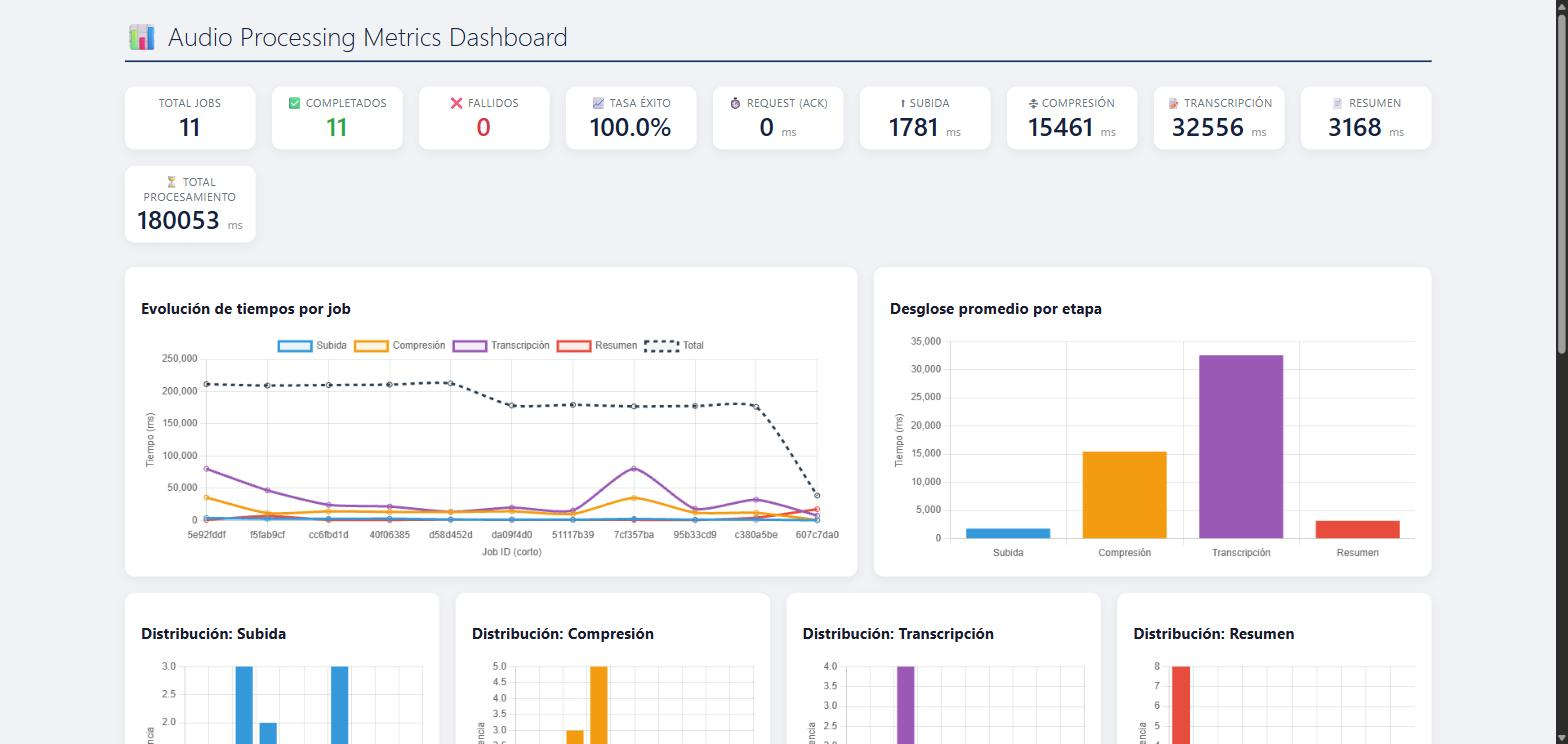
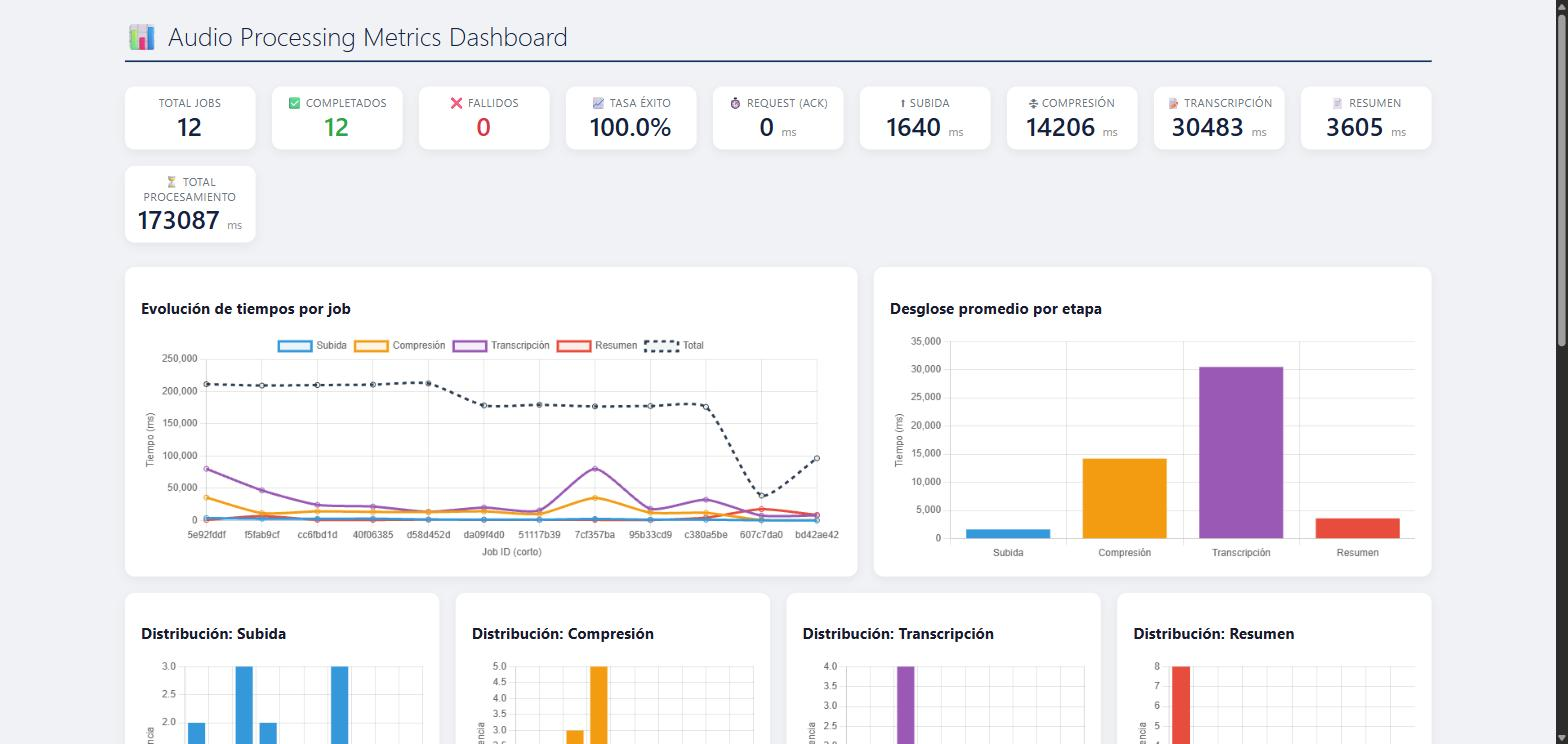
Build images from this repo's own source and fix what breaks when you do
Previous screenshots were taken against the pre-built registry images,
which turned out to be ahead of (and inconsistent with) the frontend
source tracked in this repo. Building AudioUploader and frontend from
their own Dockerfiles instead surfaced two real bugs that had to be
fixed to get a working stack:

- frontend/nginx.conf proxied /api/ to a host "api:8080" that doesn't
  exist in docker-compose.yml (the backend service is "app" on 5247),
  so nginx refused to start.
- The frontend's HTTP client assumed unwrapped API responses, but the
  backend always wraps them as { statusCode, response, error }.
  Without unwrapping, the file list crashed with a blank page.

Also adds infrastructure/docker-compose.local.yml, an explicit
(non-auto-loaded) overlay to run the stack against locally built
images instead of the registry ones, and replaces the README
screenshots with ones taken against these freshly built images.

diff --git a/frontend/src/components/AudioList/AudioList.tsx b/frontend/src/components/AudioList/AudioList.tsx
@@ -73,16 +73,16 @@ export const AudioList: React.FC = () => {
           <TableBody>
             {audioFiles.map((file) => (
               <TableRow key={file.id}>
-                <TableCell>{file.originalFileName}</TableCell>
+                <TableCell>{file.fileName}</TableCell>
                 <TableCell>
                   {file.fileSize ? (file.fileSize / 1024).toFixed(1) + ' KB' : '-'}
                 </TableCell>
                 <TableCell>{file.format?.toUpperCase() || '-'}</TableCell>
                 <TableCell>
-                  {file.jobStatus && (
+                  {file.jobStatusDisplay && (
                     <Chip
-                      label={file.jobStatus}
-                      color={file.jobStatus === 'Completed' ? 'success' : 'warning'}
+                      label={file.jobStatusDisplay}
+                      color={file.jobStatusDisplay === 'Completed' ? 'success' : 'warning'}
                       size="small"
                     />
                   )}

diff --git a/frontend/src/api/client.ts b/frontend/src/api/client.ts
@@ -8,3 +8,14 @@ export const apiClient = axios.create({
     'Content-Type': 'application/json',
   },
 });
+
+// El backend envuelve toda respuesta exitosa en { statusCode, response, error }.
+// Desenvolvemos acá una sola vez para que el resto del código pueda tratar
+// response.data como el payload real, en vez de repetir response.data.response
+// en cada llamada.
+apiClient.interceptors.response.use((response) => {
+  if (response.data && typeof response.data === 'object' && 'response' in response.data) {
+    response.data = response.data.response;
+  }
+  return response;
+});

diff --git a/frontend/src/types/index.ts b/frontend/src/types/index.ts
@@ -1,13 +1,13 @@
 export interface AudioFile {
   id: number;
-  originalFileName: string;
+  fileName: string;
   bucketPath: string;
   fileSize?: number;
   durationSeconds?: number;
   format?: string;
   fileType: string;
   createdAt: string;
-  jobStatus?: string;
+  jobStatusDisplay?: string;
   jobId?: string;
 }
 

diff --git a/README.md b/README.md
@@ -25,16 +25,29 @@ Audio subido  →  Compresión + Filtrado (FFmpeg)  →  Transcripción (Whisper
 
 ## Capturas
 
-Stack completo corriendo con `docker compose up` (backend, frontend, PostgreSQL, MinIO, RabbitMQ y Ollama con GPU), probado subiendo un audio real de punta a punta.
+Imágenes construidas **desde cero a partir del código fuente de este monorepo** (`docker build` sobre `AudioUploader/Dockerfile` y `frontend/Dockerfile`, sin usar las imágenes publicadas en el registry) y corridas con `docker compose` (backend, frontend, PostgreSQL, MinIO, RabbitMQ y Ollama con GPU). Probado subiendo un audio real de punta a punta.
 
 | | |
 |---|---|
-| **Subida de audios** — historial de jobs y drag & drop | **Procesamiento en vivo** — estado `Transcribing` notificado por WebSocket mientras corre el pipeline |
-| ![Pantalla de subida de audios](docs/screenshots/01-upload.jpg) | ![Job procesándose en tiempo real](docs/screenshots/02-live-processing.jpg) |
-| **Job completado** — transcripción y resumen generados por IA | **Dashboard de métricas** — tiempos por etapa del pipeline |
-| ![Detalle de un job completado con transcripción y resumen](docs/screenshots/03-job-completed.jpg) | ![Dashboard de métricas de procesamiento](docs/screenshots/04-metrics-dashboard.jpg) |
+| **Subir Audios** — formulario de subida con drag & drop | **Archivos de Audio** — listado con estado de cada job |
+| ![Pantalla de subida de audios](docs/screenshots/01-upload.jpg) | ![Listado de archivos de audio con su estado](docs/screenshots/02-audio-list.jpg) |
+| **Detalle de un Job** — estado y timestamps | **Dashboard de métricas** — tiempos por etapa del pipeline |
+| ![Detalle de estado de un job](docs/screenshots/03-job-status.jpg) | ![Dashboard de métricas de procesamiento](docs/screenshots/04-metrics-dashboard.jpg) |
 
-> Nota: estas capturas corresponden a la imagen de `frontend` publicada como `:latest` en el registry, que en este momento tiene funcionalidad (rutas `/audio/{id}`, validación en Web Worker, búsqueda avanzada, badge "En vivo" por WebSocket) más avanzada que el código fuente de `frontend/` incluido en este monorepo. Antes de tocar el frontend conviene sincronizar el código fuente con lo que realmente está desplegado.
+Construir y correr con las imágenes locales en vez de las del registry:
+
+```bash
+docker build -t sonata-audiouploader:local -f AudioUploader/Dockerfile AudioUploader
+docker build -t sonata-frontend:local -f frontend/Dockerfile frontend
+cd infrastructure
+docker compose -f docker-compose.yml -f docker-compose.local.yml up -d
+```
+
+> **Nota sobre el estado del frontend:** al construir `frontend/` desde su código fuente (en vez de usar la imagen `:latest` del registry, que resultó estar más adelantada) aparecieron dos problemas reales que corregimos en este mismo commit para poder levantar el stack:
+> 1. `nginx.conf` proxyaba `/api/` a un host `api:8080` que no existe en `docker-compose.yml` (el servicio se llama `app` y escucha en `5247`) — el contenedor de nginx no arrancaba.
+> 2. El cliente HTTP del frontend esperaba las respuestas del backend sin envolver, pero la API siempre responde como `{ statusCode, response, error }` — sin desenvolver ese objeto, la lista de archivos fallaba con una excepción de JavaScript y la página quedaba en blanco.
+>
+> El código fuente de `frontend/` sigue por detrás de la imagen `:latest` publicada en el registry en otros aspectos (no tiene, por ejemplo, la búsqueda avanzada, la validación en Web Worker ni las notificaciones en vivo por WebSocket que sí tiene esa imagen) — ver [Estado y limitaciones conocidas](#estado-y-limitaciones-conocidas).
 
 ---
 
@@ -131,7 +144,10 @@ Sonata/
 │   └── src/
 ├── infrastructure/        # Docker Compose + pruebas de carga (k6)
 │   ├── docker-compose.yml
+│   ├── docker-compose.local.yml  # overlay opcional: usa imágenes construidas localmente
 │   └── k6/load-test.js
+├── docs/screenshots/      # Capturas usadas en este README
+├── .gitattributes         # Fuerza LF en scripts (evita romper entrypoint.sh en Linux)
 └── README.md              # Este documento
 ```
 
@@ -270,3 +286,4 @@ k6 run -e BASE_URL="http://localhost:5247" \
 - **No hay autenticación/autorización** en ningún endpoint — pensado para entorno de desarrollo/demo, no para exposición pública sin una capa adicional de seguridad.
 - El pipeline de transcripción/resumen depende de GPU NVIDIA para rendimiento aceptable; en CPU funciona pero significativamente más lento.
 - El frontend cubre el flujo básico (subir, ver estado, listar); no todas las capacidades del backend (filtrado de audio, dashboard de métricas, notificaciones en tiempo real) están integradas en la UI todavía.
+- El frontend construido desde código fuente quedó funcional (ver nota en [Capturas](#capturas)), pero el ícono "ver job" del listado usa un link muerto (`#job-{id}` en vez de navegar a `/job/{id}`) — hay que entrar a esa ruta manualmente.
